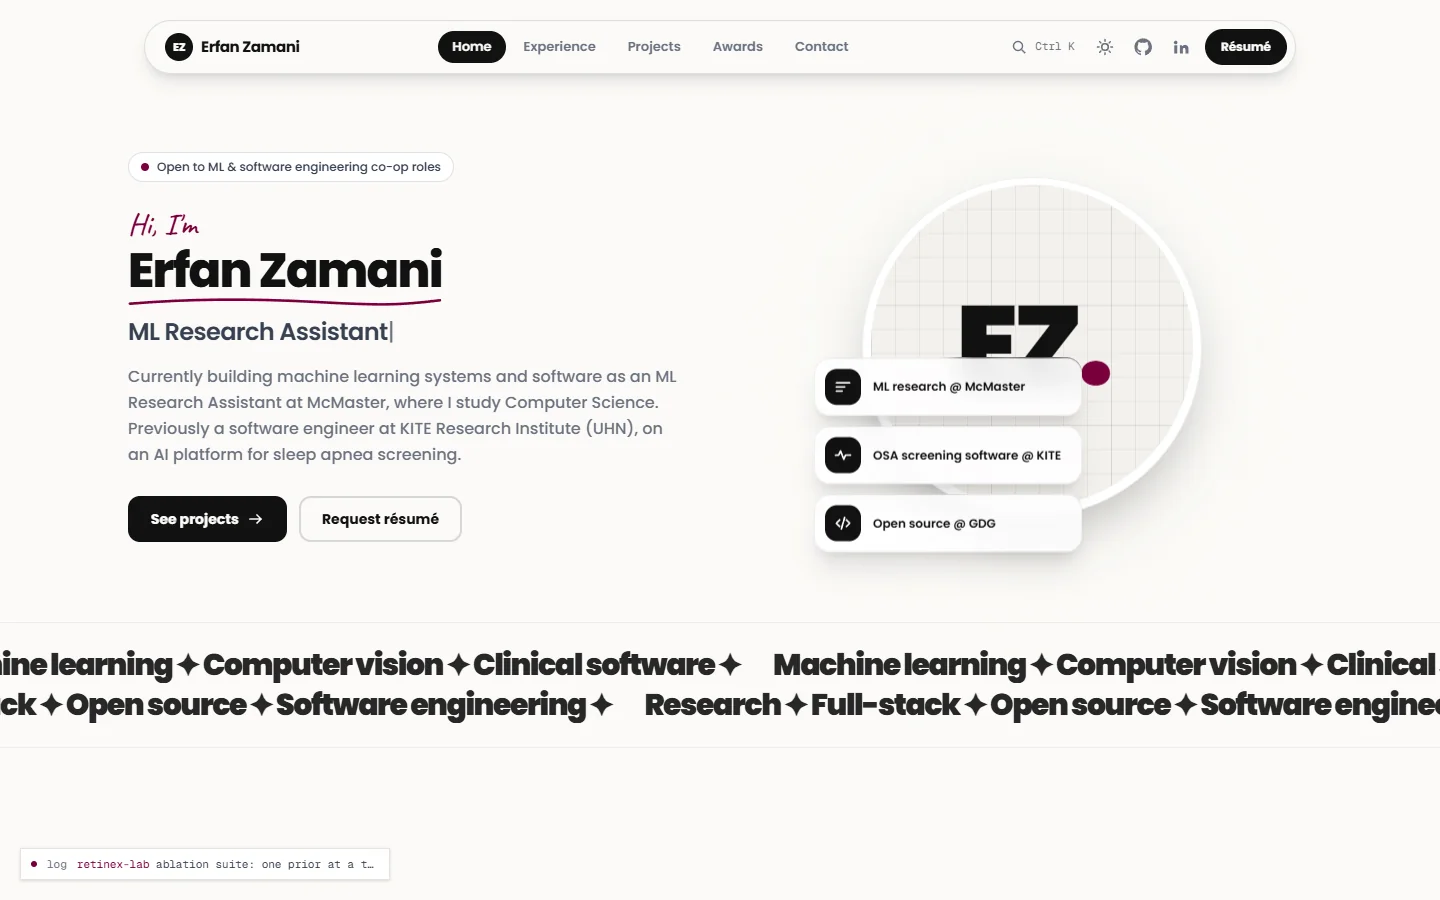
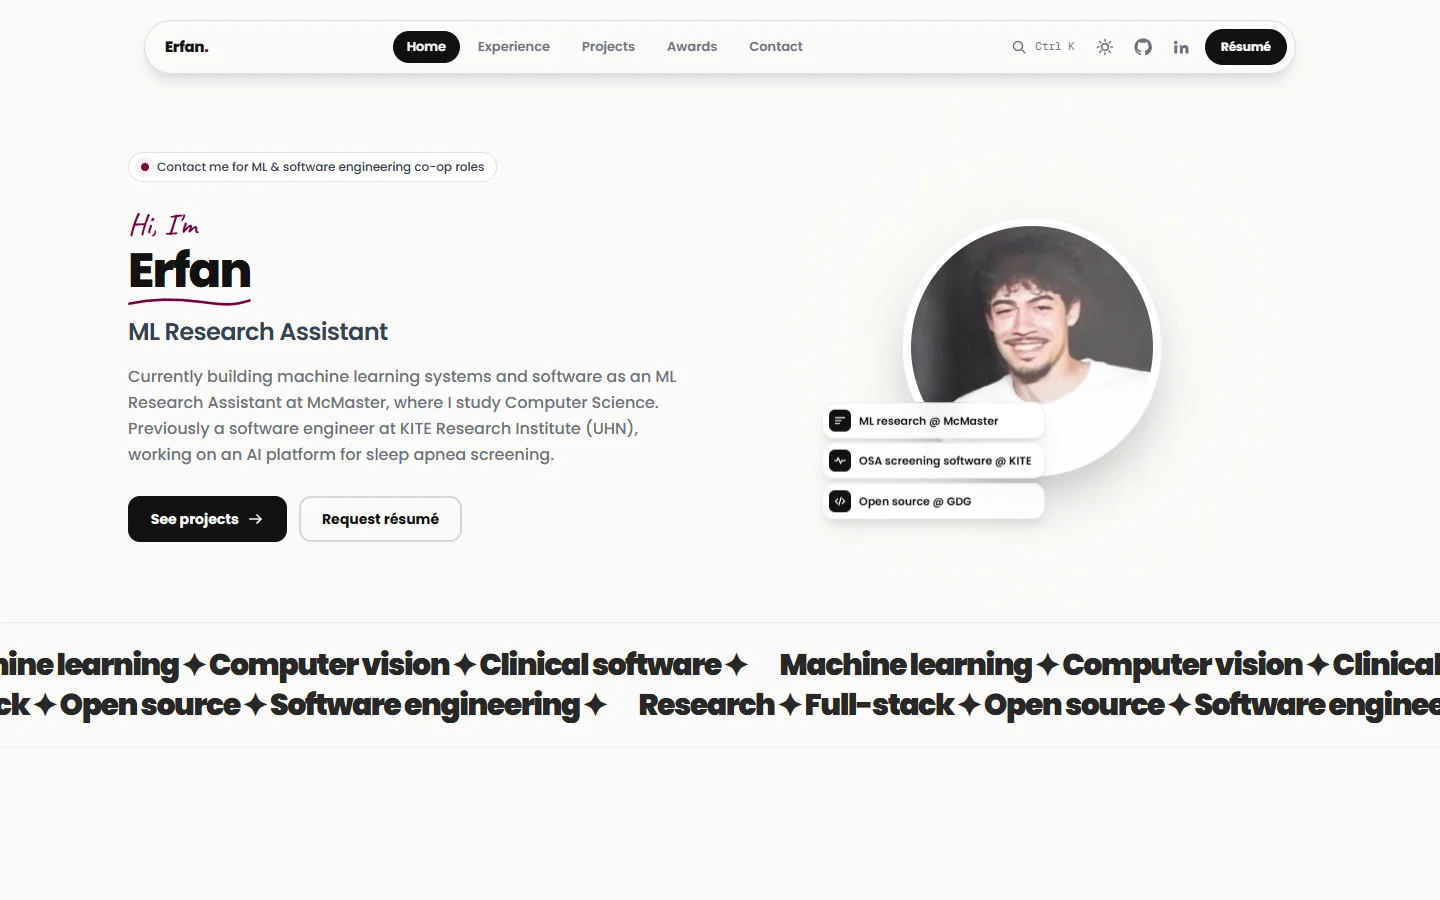
Updating ReadMe

diff --git a/content/log.ts b/content/log.ts
@@ -7,9 +7,9 @@ export type LogEntry = {
 }
 
 export const shipLog: LogEntry[] = [
-  { scope: "retinex-lab", kind: "research", text: "ablation suite: one prior at a time, size always reported", href: "/experience" },
-    { scope: "orbitour", kind: "ship", text: "multi-agent planning with 3D fly-throughs", href: "/projects/orbitour" },
-  { scope: "thru.io", kind: "milestone", text: "voice AI drive-through built at Mac-a-Thon 2026", href: "/projects/thru-io" },
-  { scope: "clinical-recorder", kind: "milestone", text: "OSA screening recordings across real patient sessions", href: "/experience" },
-  { scope: "site", kind: "site", text: "tabs, terminal and ⌘K palette live", href: "/" },
+  { scope: "mcmaster", kind: "research", text: "ML Research Assistant, building machine learning systems", href: "/experience" },
+  { scope: "orbitour", kind: "ship", text: "multi-agent trip planning with 3D fly-throughs", href: "/projects/orbitour" },
+  { scope: "thru.io", kind: "milestone", text: "multilingual voice AI drive-through, GDG Mac-a-Thon 2026", href: "/projects/thru-io" },
+  { scope: "kite-uhn", kind: "milestone", text: "recording system used across real patient sessions", href: "/experience" },
+  { scope: "gdg", kind: "oss", text: "open source team member, Google Developer Groups", href: "/experience" },
 ]

diff --git a/app/api/resume-request/route.ts b/app/api/resume-request/route.ts
@@ -19,7 +19,7 @@ export async function POST(req: Request) {
   if (rateLimited(`resume:${clientIp(req)}`)) return NextResponse.json({ error: "Too many requests. Try again later." }, { status: 429 })
 
   const mailer = getMailer()
-  if (!mailer) return NextResponse.json({ error: `Résumé requests aren't set up yet. Email me at ${site.email}.` }, { status: 503 })
+  if (!mailer) return NextResponse.json({ error: `Résumé requests can't be sent right now. Email me at ${site.email}.` }, { status: 503 })
 
   const pdf = await readFile(path.join(process.cwd(), "private", "resume.pdf")).catch(() => null)
 

diff --git a/app/api/contact/route.ts b/app/api/contact/route.ts
@@ -16,7 +16,7 @@ export async function POST(req: Request) {
   if (rateLimited(`contact:${clientIp(req)}`, 5)) return NextResponse.json({ error: "Too many messages. Try again later." }, { status: 429 })
 
   const mailer = getMailer()
-  if (!mailer) return NextResponse.json({ error: `The form isn't set up yet. Email me at ${site.email}.` }, { status: 503 })
+  if (!mailer) return NextResponse.json({ error: `Messages can't be sent from here right now. Email me at ${site.email}.` }, { status: 503 })
 
   try {
     await mailer.transport.sendMail({

diff --git a/components/home/ExperienceTimeline.tsx b/components/home/ExperienceTimeline.tsx
@@ -19,7 +19,7 @@ export default function ExperienceTimeline() {
       const list = listRef.current
       if (!list) return
       const items = [...list.querySelectorAll<HTMLElement>("[data-exp]")]
-      const line = window.innerHeight * 0.55
+      const line = window.innerHeight * 0.45
       const atBottom = window.scrollY + window.innerHeight >= document.documentElement.scrollHeight - 4
       let idx = 0
       items.forEach((el, i) => el.getBoundingClientRect().top < line && (idx = i))

diff --git a/README.md b/README.md
@@ -1,10 +1,10 @@
 <div align="center">
 
-# Erfan Zamani · Portfolio
+# Erfan Zamani
 
-**ML Research Assistant at McMaster · Software Engineer · Computer Science**
+**ML Research Assistant at McMaster University · Software Engineer**
 
-My personal site: experience, projects and awards, with a terminal you can type into.
+Computer Science at McMaster. I build machine learning systems and the software around them, from research at McMaster to an AI sleep apnea screening platform at KITE Research Institute (UHN).
 
 [![Next.js](https://img.shields.io/badge/Next.js-16-000000?style=flat&logo=nextdotjs&logoColor=white)](https://nextjs.org)
 [![React](https://img.shields.io/badge/React-19-149ECA?style=flat&logo=react&logoColor=white)](https://react.dev)
@@ -23,18 +23,20 @@ My personal site: experience, projects and awards, with a terminal you can type 
 
 <br />
 
-## Highlights
+## About this site
+
+My personal portfolio: where I've worked, what I've built and what I've been recognized for, in a site that's quick to scan and fun to explore.
 
 | | |
 | --- | --- |
-| **Tabbed layout** | Home, Experience, Projects, Awards and Contact, each one click away from a pill header with a sliding indicator. |
-| **Interactive terminal** | Type `whoami`, `experience`, `projects`, `skills`, `awards` or `open orbitour`. Tab autocompletes, ↑ and ↓ walk history, and every command also has a tap-friendly chip. |
-| **Experience timeline** | A centre line that fills as you scroll, with roles alternating left and right. On phones the line moves to the side. |
-| **Résumé by email** | Visitors request the résumé and receive the PDF automatically, and I get notified. The PDF is never publicly downloadable. |
-| **Project case studies** | Real screenshots with a full-screen viewer, architecture diagrams that draw themselves, and the stack shown as icon chips. |
-| **Command palette** | `Ctrl K` / `⌘ K` jumps to any page, project or link from anywhere. |
-| **Light and dark themes** | Follows the system setting and remembers your choice. |
-| **Accessible and fast** | Pages are prerendered, animations respect reduced motion, keyboard navigation works everywhere, and every page fits a phone screen. |
+| **Tabs** | Home, Experience, Projects, Awards and Contact, one click apart. |
+| **Interactive terminal** | Type `whoami`, `experience`, `projects`, `skills`, `awards` or `open orbitour`. Tab autocompletes, ↑ and ↓ walk history, and every command also has a button. |
+| **Experience timeline** | A centre line that fills as you scroll, with roles alternating on either side. |
+| **Project case studies** | Real screenshots with a full-screen viewer, architecture diagrams that draw themselves, and each project's stack. |
+| **Résumé on request** | Leave your email and the résumé arrives in your inbox automatically. |
+| **Command palette** | `Ctrl K` / `⌘ K` jumps to any page, project or link. |
+| **Light and dark themes** | Follows your system setting and remembers your choice. |
+| **Built for every screen** | Prerendered pages, keyboard navigation, reduced-motion support and a layout that works on phones. |
 
 <table>
   <tr>
@@ -45,7 +47,21 @@ My personal site: experience, projects and awards, with a terminal you can type 
     <td align="center"><sub>The terminal</sub></td>
     <td align="center"><sub>The experience timeline</sub></td>
   </tr>
+  <tr>
+    <td width="50%"><img src="docs/projects.webp" alt="Projects page" /></td>
+    <td width="50%"><img src="docs/awards.webp" alt="Awards page" /></td>
+  </tr>
+  <tr>
+    <td align="center"><sub>Projects</sub></td>
+    <td align="center"><sub>Awards & honours</sub></td>
+  </tr>
 </table>
+
+## Featured projects
+
+**[Orbitour](https://github.com/Erunixz/Orbitour)**: a trip planner where the 3D city is the interface. Code tools and two AI agents plan day-by-day trips from verified places, and you fly through them over photorealistic 3D tiles.
+
+**[thru.io](https://devpost.com/software/thru-ai)**: a multilingual voice AI drive-through built at GDG McMaster Mac-a-Thon 2026, with camera-triggered ordering and a live kitchen display.
 
 ## Built with
 
@@ -54,89 +70,17 @@ My personal site: experience, projects and awards, with a terminal you can type 
 | Framework | Next.js 16 (App Router), React 19, TypeScript |
 | Styling | Tailwind CSS 4, Poppins, Geist Mono |
 | Motion | `motion` for the tab indicator, dialogs and the scroll-linked timeline |
-| Email | Nodemailer over SMTP for the contact form and résumé requests |
-| Icons | [Simple Icons](https://simpleicons.org) (CC0) |
+| Email | Nodemailer for the contact form and résumé requests |
+| Icons | [Simple Icons](https://simpleicons.org) |
 
-## Getting started
-
-Requires Node 20.9 or newer.
+## Running locally
 
 ```bash
 git clone https://github.com/Erunixz/Portfolio.git
 cd Portfolio
 npm install
-cp .env.example .env.local
 npm run dev
 ```
-
-Open [http://localhost:3000](http://localhost:3000).
-
-| Command | What it does |
-| --- | --- |
-| `npm run dev` | Start the dev server |
-| `npm run build` | Production build |
-| `npm run start` | Serve the production build |
-| `npm run lint` | Run ESLint |
-
-## Environment variables
-
-The contact form and résumé requests send email over SMTP. Without these variables the site still works, and the forms ask visitors to email directly.
-
-| Variable | Example | Notes |
-| --- | --- | --- |
-| `SMTP_HOST` | `smtp.gmail.com` | Required |
-| `SMTP_PORT` | `465` | Defaults to 465 |
-| `SMTP_USER` | `you@gmail.com` | Required |
-| `SMTP_PASS` | App Password | Required. For Gmail: Google Account › Security › App passwords |
-| `MAIL_FROM` | `Erfan Zamani <you@gmail.com>` | Optional |
-| `MAIL_TO` | `you@gmail.com` | Optional. Where notifications go, defaults to `SMTP_USER` |
-
-Put the résumé at `private/resume.pdf`. The API route attaches it to each request. If the repository is public, anything committed in `private/` is visible on GitHub.
-
-## Project structure
-
-```
-app/
-  page.tsx                Home: hero, terminal, about, tech stack
-  experience/             Experience timeline
-  projects/               Project grid and /projects/[slug] case studies
-  awards/                 Scholarships and competition distinctions
-  contact/                Contact form and résumé request
-  api/contact/            Contact form email
-  api/resume-request/     Automatic résumé email
-components/
-  SiteHeader.tsx          Pill header with tabs
-  home/Terminal.tsx       The interactive shell
-  home/ExperienceTimeline.tsx
-  Gallery.tsx             Screenshots and full-screen viewer
-  ResumeRequest.tsx       Résumé request dialog
-  CommandPalette.tsx      Ctrl K / ⌘ K palette
-content/                  All text and data lives here
-public/projects/          Project screenshots
-```
-
-## Editing content
-
-Everything on the site comes from the files in `content/`, so updates rarely touch components.
-
-| To change | Edit |
-| --- | --- |
-| Name, links, intro, typing roles | `content/site.ts` |
-| Experience | `content/experience.ts` |
-| Projects | `content/projects.ts` |
-| Awards | `content/awards.ts` |
-| Tech stack | `content/stack.ts` |
-| About me | the `about` section in `app/page.tsx` |
-
-**Adding a project:** add an entry to `content/projects.ts`, and put screenshots in `public/projects/<slug>/` (WebP, about 1600px wide). The first image becomes the card cover. The project page, terminal commands, command palette and sitemap update automatically.
-
-## Deploy
-
-1. Push to GitHub and import the repository on [Vercel](https://vercel.com). The default Next.js settings work as is.
-2. Add the SMTP variables under Project › Settings › Environment Variables.
-3. Set your domain in `content/site.ts` (`url`).
-
-The contact and résumé forms use server routes, so the site needs a Node host like Vercel rather than a static host like GitHub Pages.
 
 ## License
 
